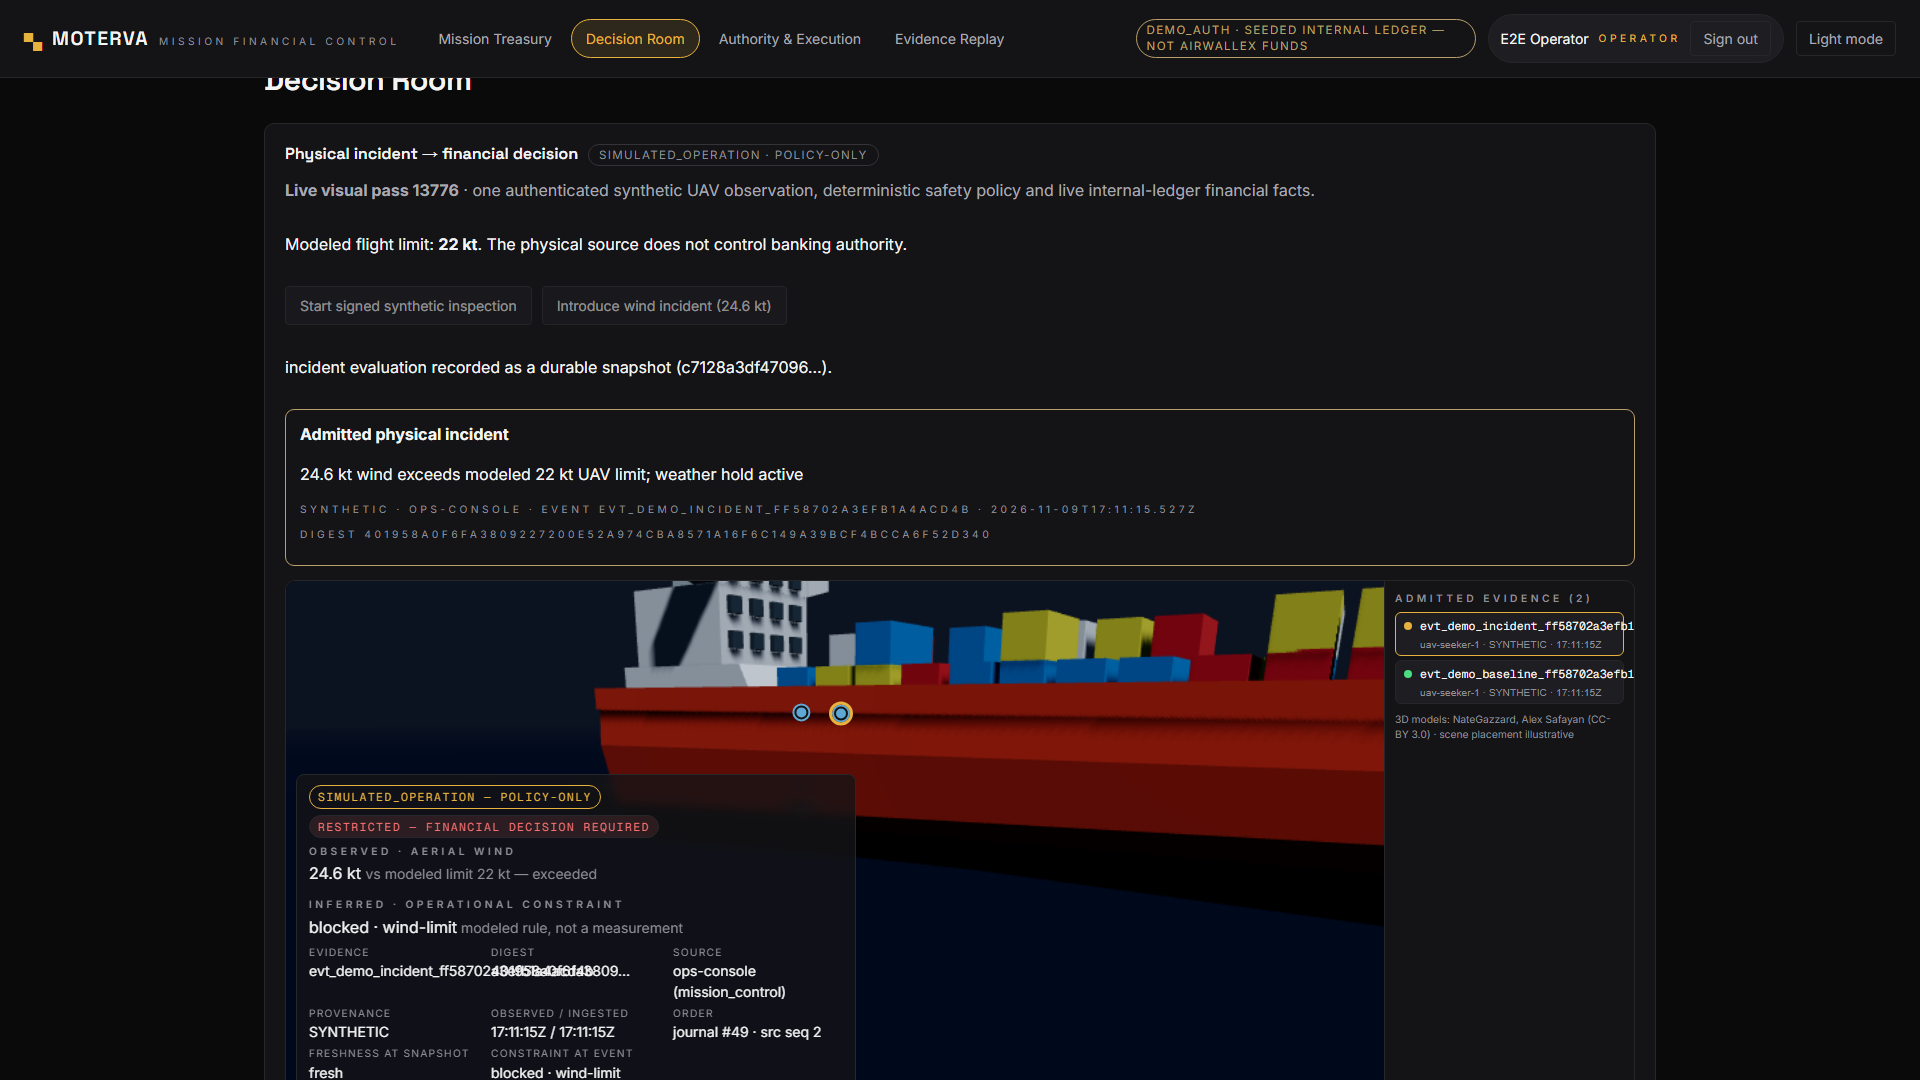
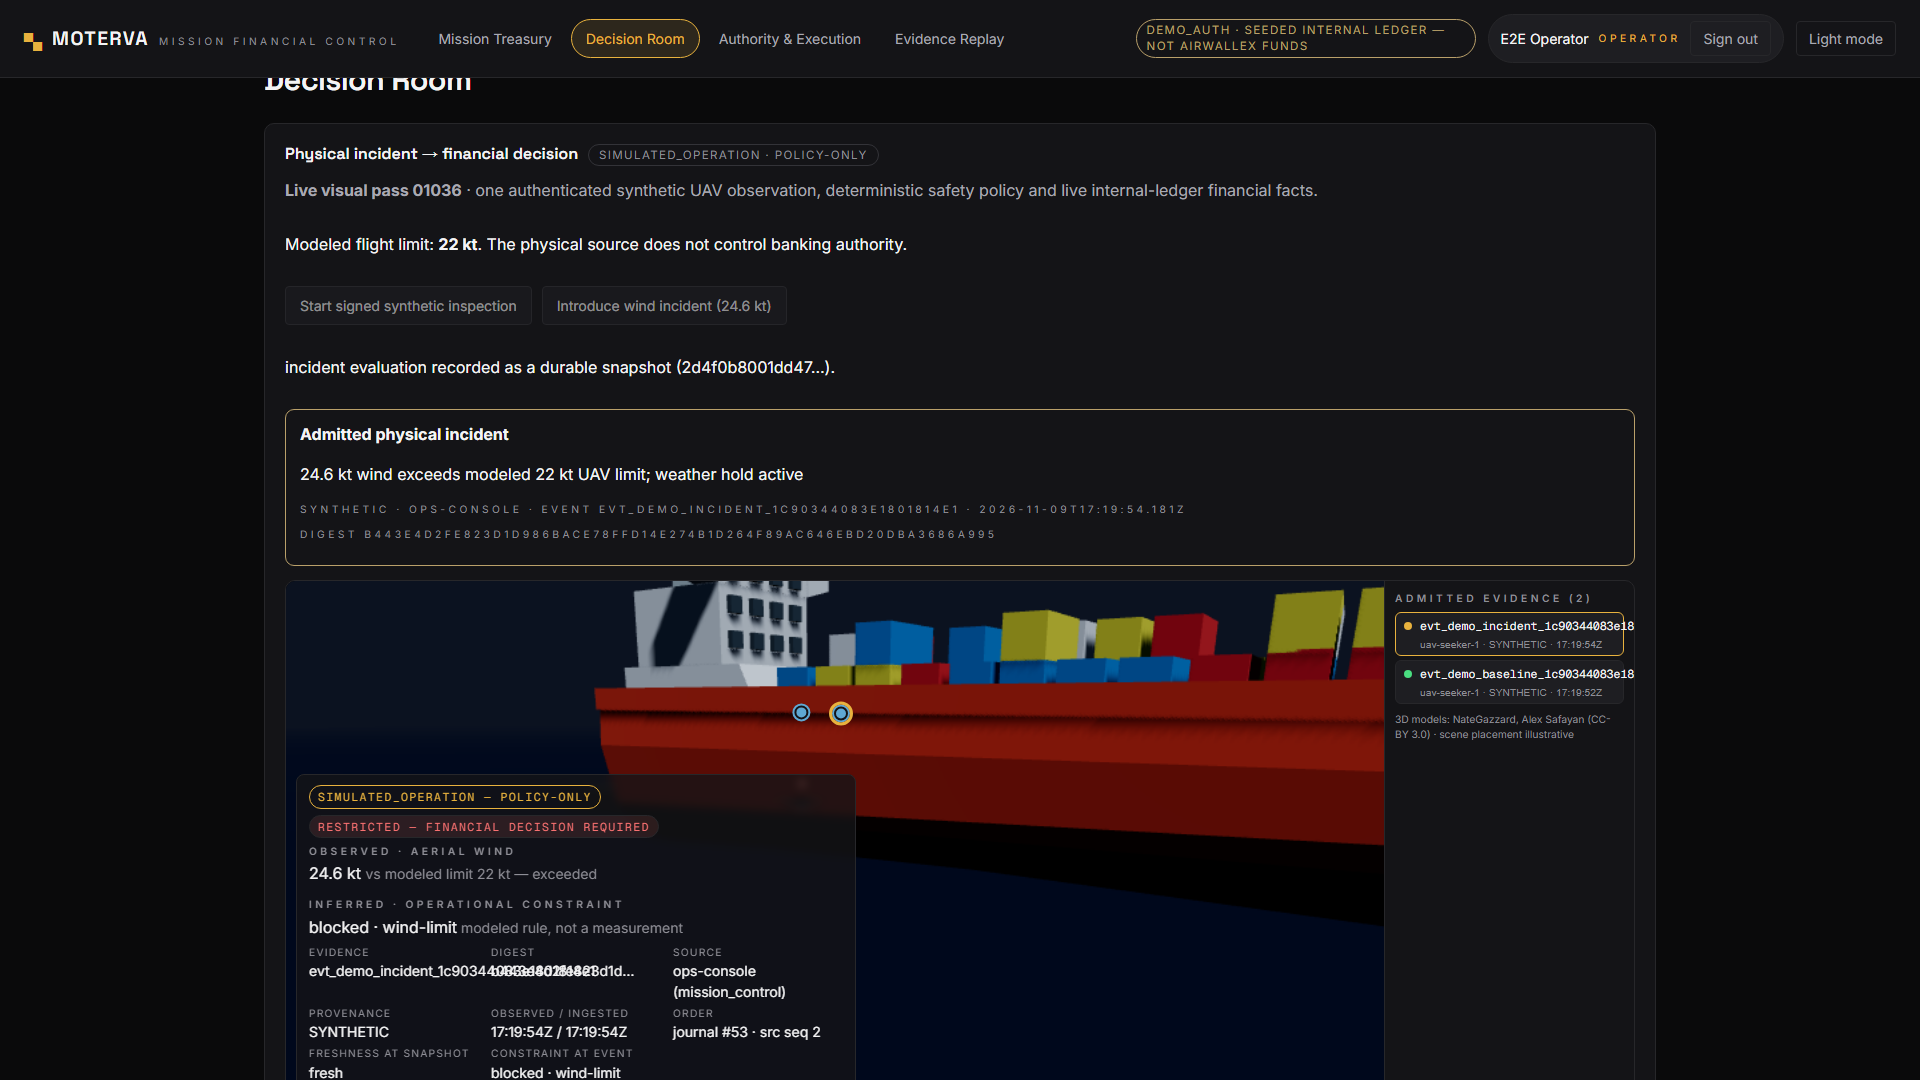
test(mtv-14): LIVE integrated acceptance green — real-server 3D incident scene inside the Decision Room
- S0 initial (honest unknown) → S1 baseline nominal → S2/S3 restricted on
  the LIVE 24.6 kt journal incident → S4 historical replay → back to live.
- Evidence list shows the real journaled ids (evt_demo_*); the physical-
  incident panel renders them uppercased via CSS — matched case-
  insensitively.
- 2D fallback parity from the LIVE snapshot; reload determinism; zero
  financial writes from viewport interactions; 1920px capture; 320px
  no-overflow.
- Serial mode for the integrated spec (shared seeded demo server, D-3 class).
- The strict adapter caught a REAL server gap during integration: an empty
  timeline omitted the KNOWN catalog asset — the S0 payload now always
  projects the mandate-scoped inspection UAV (fixed server-side).

diff --git a/e2e/mission-viewer-integrated.spec.ts b/e2e/mission-viewer-integrated.spec.ts
@@ -24,6 +24,11 @@ const CAPTURE_DIR = join(import.meta.dirname, '..', 'research', 'mtv-09', 'captu
 
 test.setTimeout(180_000);
 
+// The demo-auth server seeds ONE shared ledger: concurrent journeys reorder
+// the synthetic timeline and trip login rate limiting (documented D-3 class).
+// Serial execution is the established pattern for real-server journey specs.
+test.describe.configure({ mode: 'serial' });
+
 async function signIn(page: Page, username: 'founder' | 'operator'): Promise<void> {
   await page.goto('/');
   await page.getByLabel('Username').fill(username);
@@ -123,7 +128,7 @@ test('LIVE: physical incident renders the restricted 3D scene inside the real De
     /evt_demo_incident_[a-z0-9]+/i,
   )?.[0];
   expect(incidentId).toBeTruthy();
-  await expect(viewer.locator('.mpv-events')).toContainText(incidentId!, { timeout: 15_000 });
+  await expect(viewer.locator('.mpv-events')).toContainText(new RegExp(incidentId!, 'i'), { timeout: 15_000 });
   // The restricted state shows the financial decision link (host-provided),
   // never a payment result.
   await expect(page.getByTestId('mpv-decision-link')).toBeVisible();
